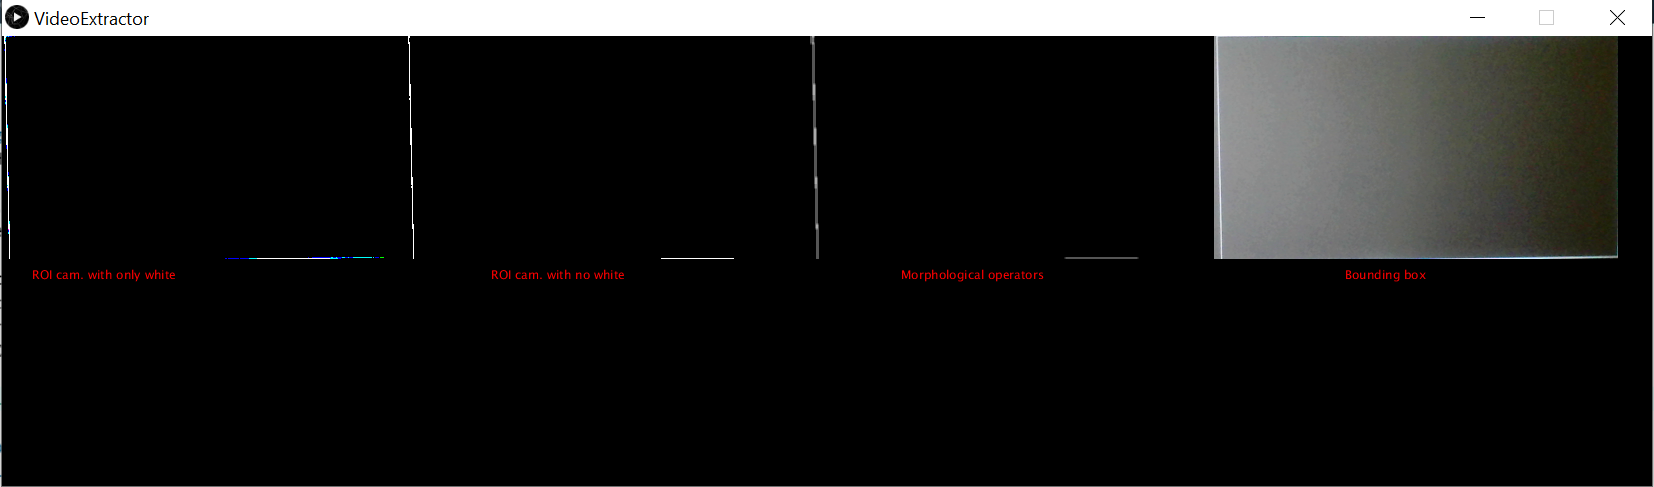
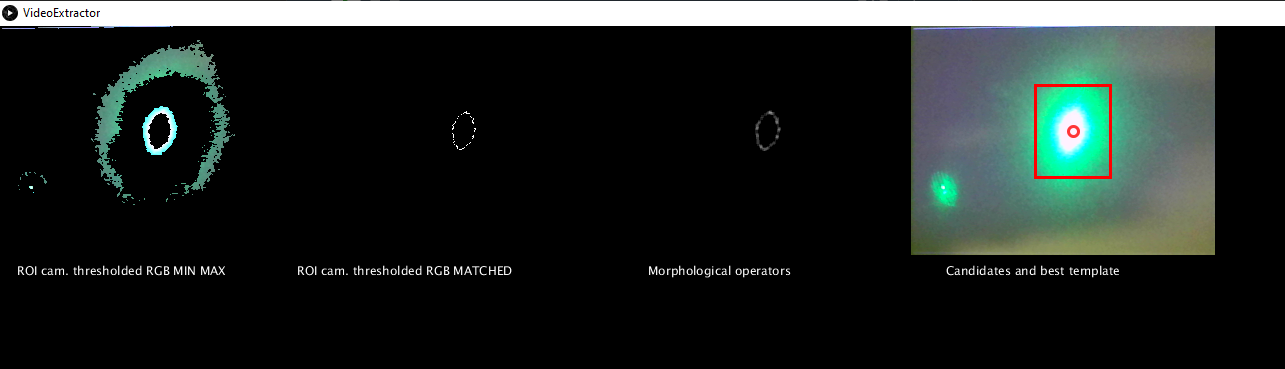
fix howto

diff --git a/README.md b/README.md
@@ -25,9 +25,10 @@ In your main sketch you have to draw ONLY with the color white.
 The main sketch runs on the projector, so it's projected on the wall.
 The analysis (and the user interaction for ROI and RGB registration) happens on a second sketch that runs in another thread on secondary papplet.
 The camera records what is projected, and analyze only what happens in the ROI (the ROI is selected from the user).
-The videoextractor eliminate the white pixels from the ROI (these should be from the main sketch projection), and detects the most similars to the RGB values selected from the user.
-The center of mass of this point is returned, normalized in the main sketch size/coordinates.
-The main sketch can use the center of mass from the videoextractor papplet.
+When the sketch starts, you register the part of the camera where the main sketch happens (mode 0) and the
+template you want to track (mode 1)
+The processor applies several analysis step, and returns the best match for the registered ROI template.
+
  
 
  
@@ -38,20 +39,25 @@ In the setup function, the second parameter to fullScreen() is the index of the 
 to try it out, on my system sometimes it's 2, others it's 1)
  
 ```java
-
-PVector centerOfMassFromVideoExtractor; //this is set from the videoextractor
-
-
 //MAIN SKETCH
+
+import processing.video.*;
+
+VideoExtractor videoExtractor; 
+int NUM_COLS = 40;
+int NUM_ROWS = 40; 
+
 void setup()
 {
 
-  fullScreen( P3D,2);  
+ 
+  fullScreen( P3D,1); 
   background(0);
-  
-  videoExtractor = new VideoExtractor(1650, 450, this); 
+   
+  videoExtractor = new VideoExtractor(1650, 450, this);
   videoExtractor.startSketch();
 }
+
 ```
 
 Note that in the main sketch , for the demo, I draw a white rectangle wrapping the main sketch.
@@ -59,33 +65,32 @@ This is used to understand, on the secondary/control sketch, where is the sketch
 
  
 ```java
+PVector displayHere; //this is set by the VideoExtractor class
+
 void draw()
 {
+  //this is the white rectangle wrapping the primary sketch
   background(0);
-  
-  //this white rectangle wrapping the sketch is used to control 
-  //where to draw the ROI
   noFill();
   stroke(255,210);
   rectMode(CORNER);
   rect(0,0,displayWidth,displayHeight);
   
-  
-  if(null != centerOfMassFromVideoExtractor)
+  PVector t;
+  if(null !=(t = displayHere))
   {
      rectMode(CENTER);
-     noFill();
-     stroke(255,255);
-     rect(centerOfMassFromVideoExtractor.x,centerOfMassFromVideoExtractor.y,50,50);
+     fill(255,10);
+     rect(displayHere.x,displayHere.y,200,200);
   }
- 
+  
 }
 ```
 
 When you start the sketch, on the second window (not the one of the main sketch)
 you have 3 working modes (the starting one is 0)
-0: Register ROI 
-1: Register what RGB color detect 
+0: Register ROI for the main sketch
+1: Register ROI for the region to detect (using cross correlation)
 2: Start the analysis and interaction between the videoextractor and the main sketch
 
 
